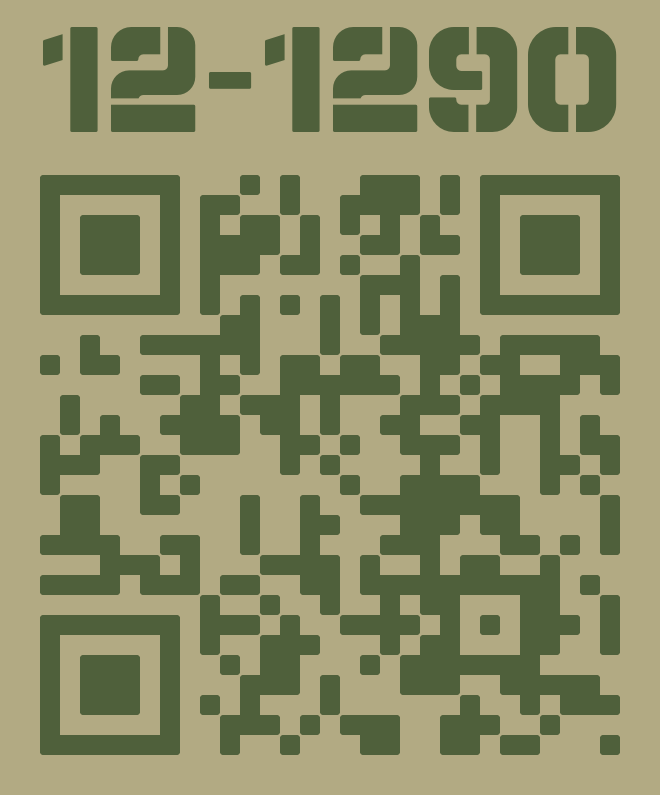
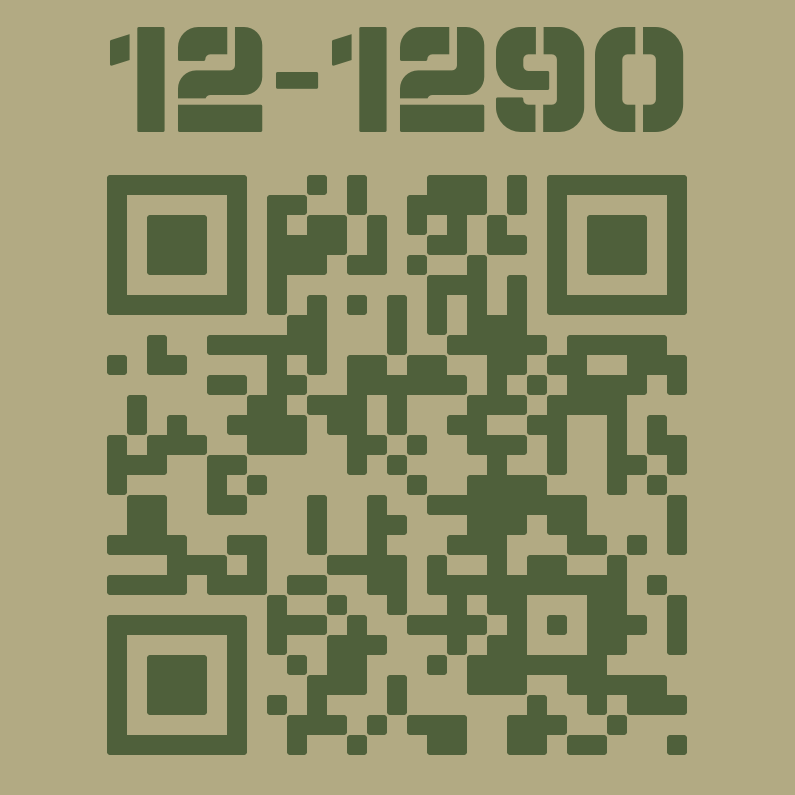
changed unit tests

diff --git a/DroneTools.py b/DroneTools.py
@@ -79,7 +79,7 @@ class DroneTag():
         id_margin = drone_data.get("id_margin", 75)
         title_size = drone_data.get("title_size", None)
         title_margin = drone_data.get("title_margin", 70)
-        square = drone_data.get("square", True)
+        square = drone_data.get("square", False)
         text = drone_data.get("drone_id", "")
         side_text = drone_data.get("title", "")
         barcode = self.drone_data.get("barcode", False)
@@ -238,7 +238,6 @@ if __name__ == "__main__":
             "drone_id": "U992",
             "barcode": True,
             "font_path": "./assets/font2.otf",
-            "square": True,
             "title": "Drone",
             "front_color": "#FF8C00",
         },
@@ -270,6 +269,7 @@ if __name__ == "__main__":
             "font_path": "./assets/font3.otf",
             "qr_roundness": 0.3,
             "id_padding": 30,
+            "square": True,
             "back_color": "#b2aa83",
             "front_color": "#4f603b",
         },
